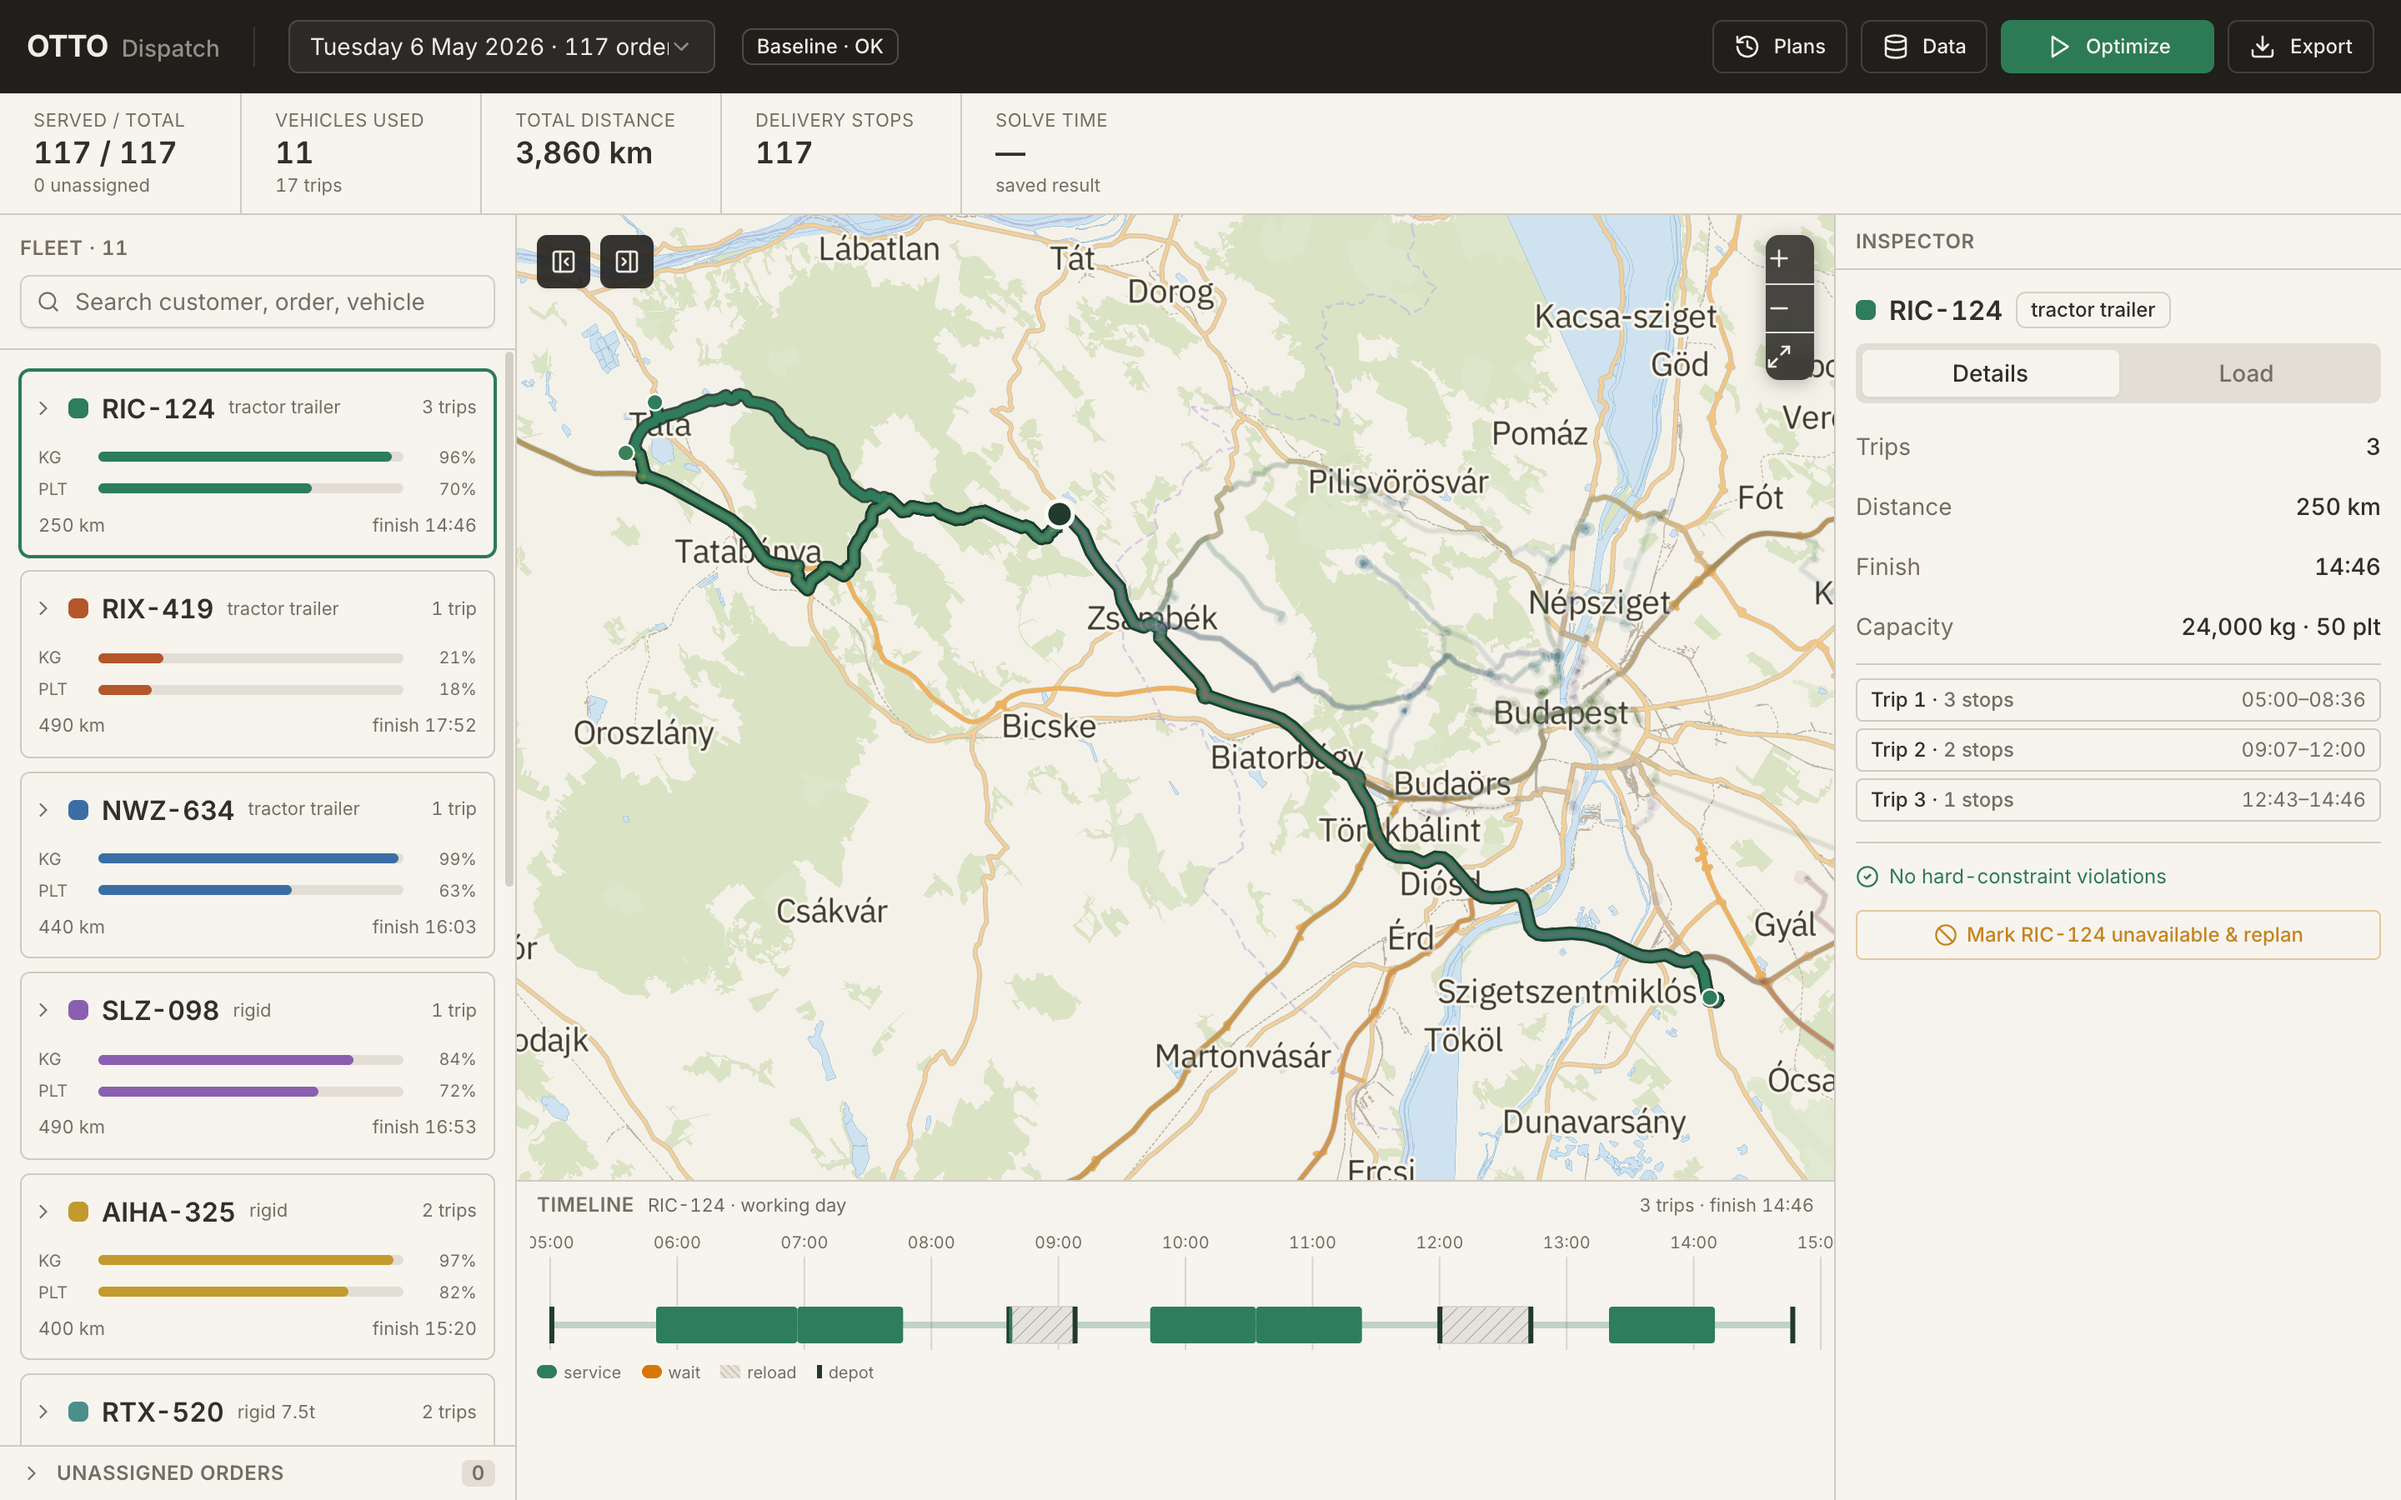
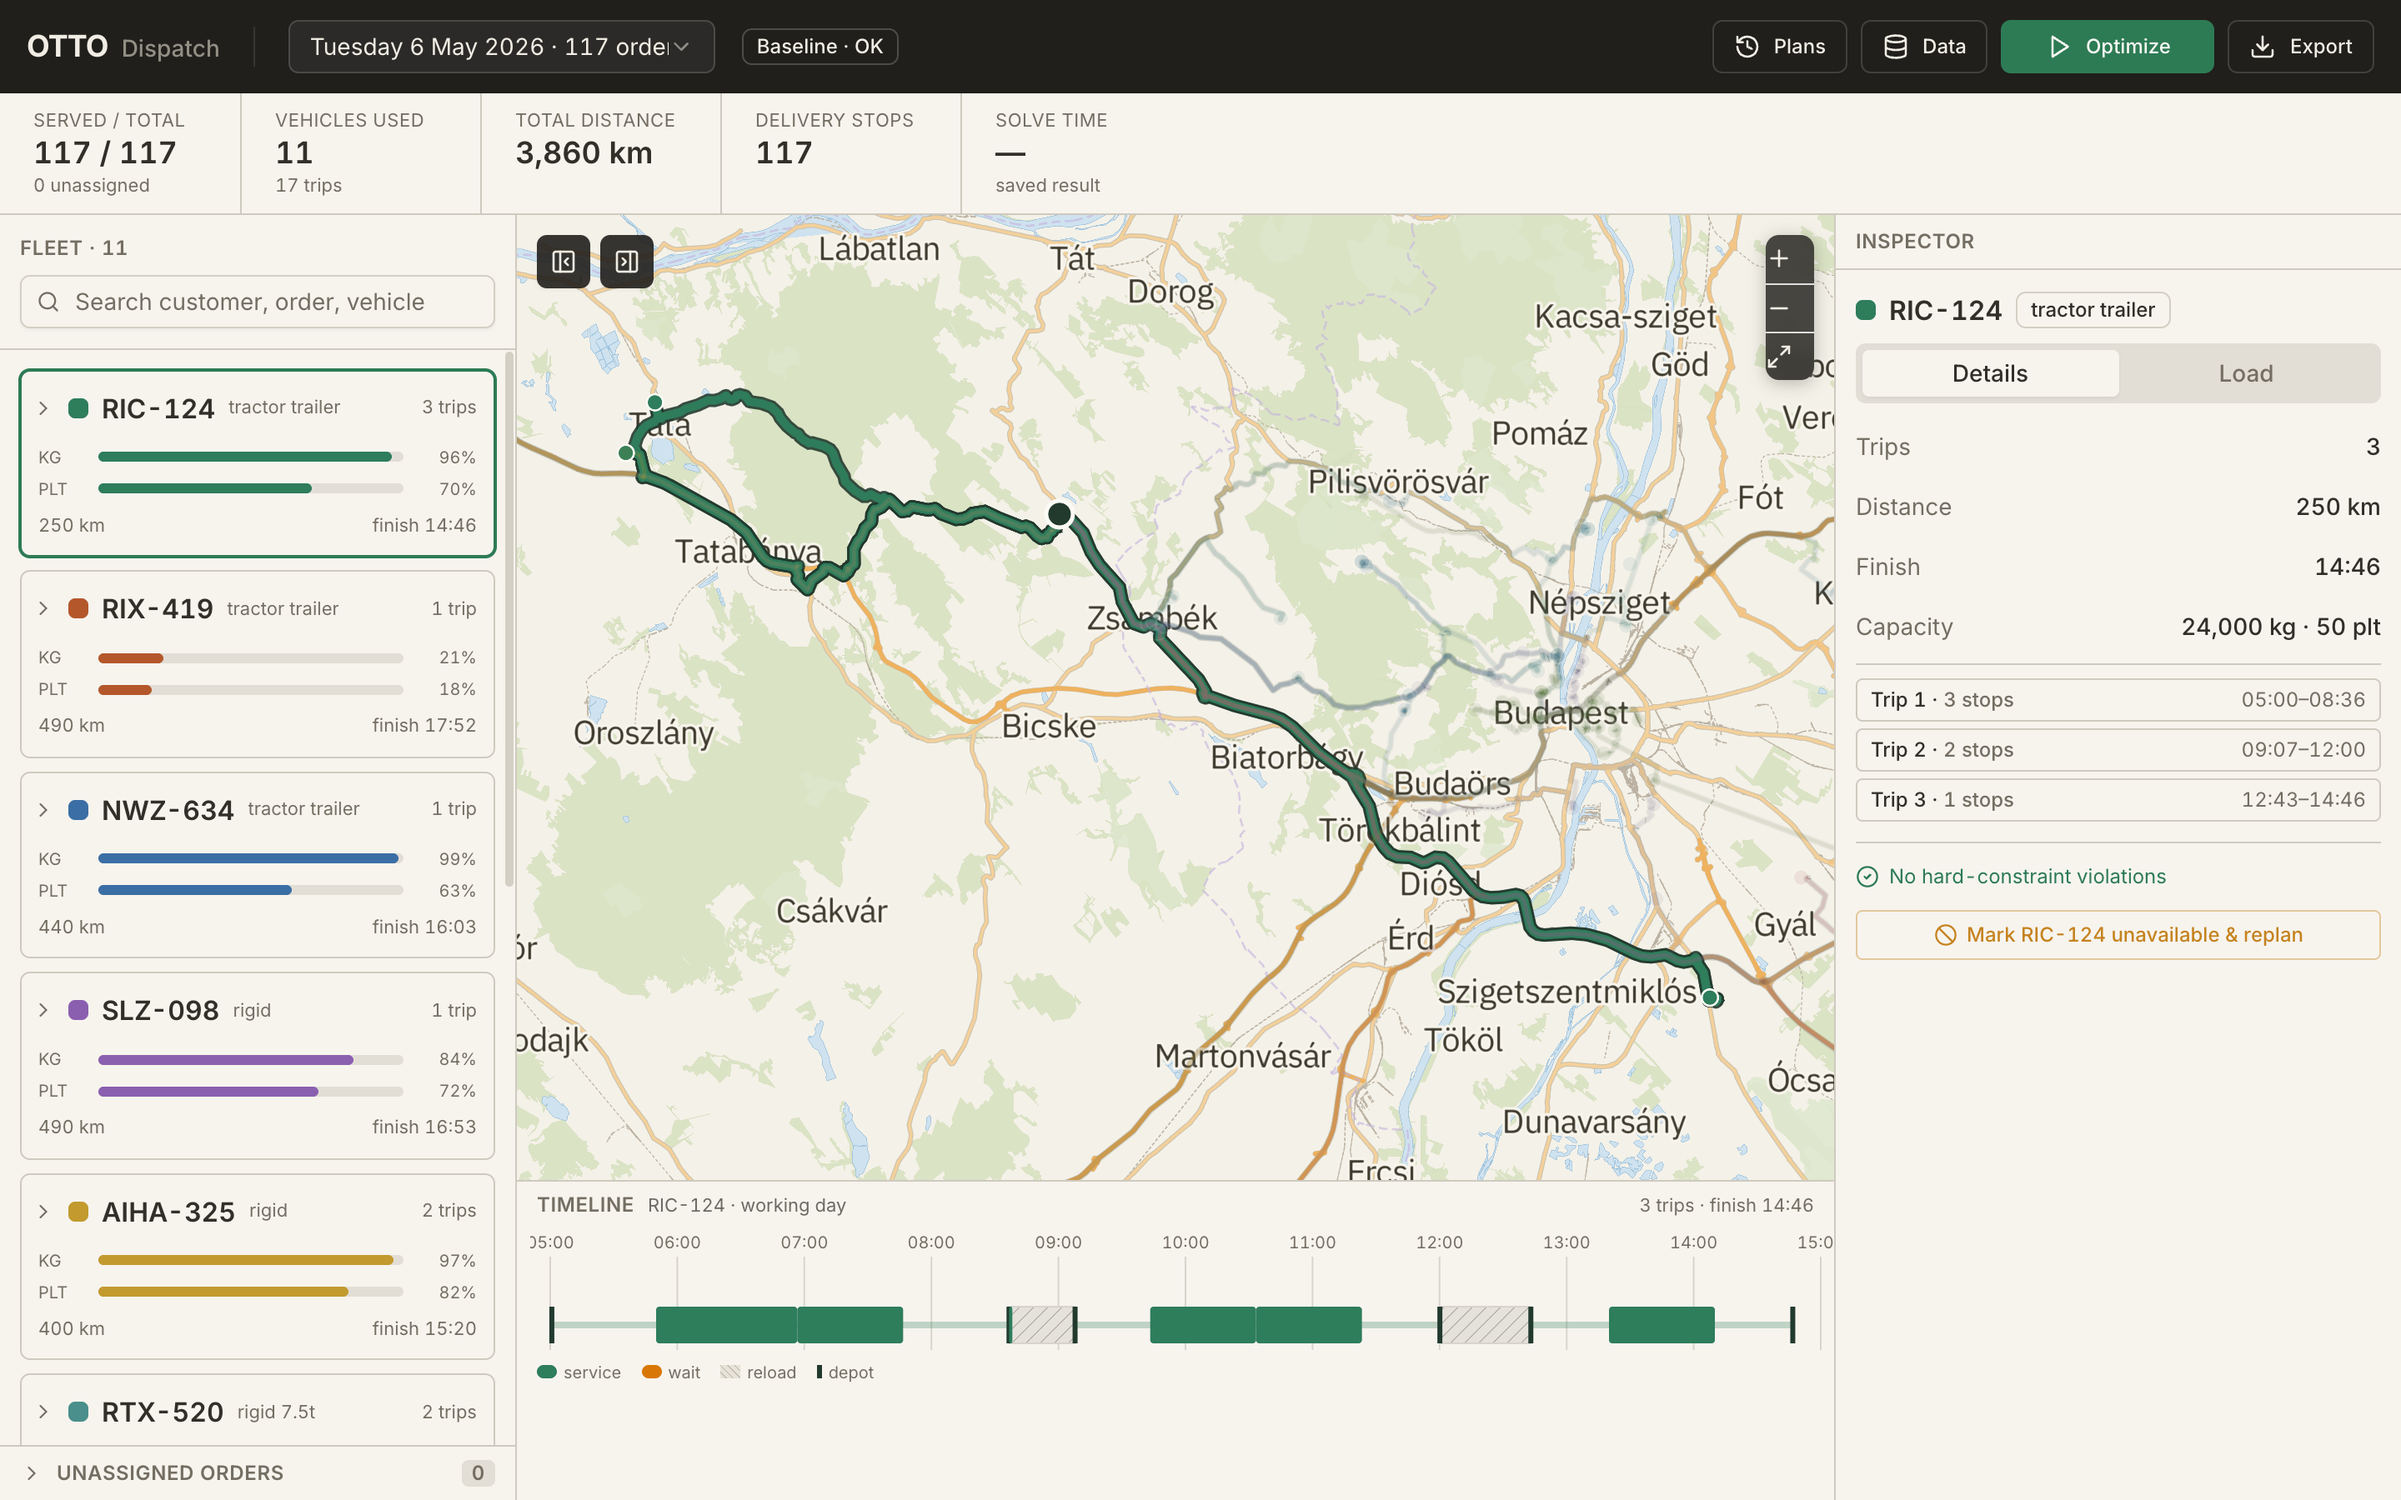
dispatch: fix river centerline artifact + show road names at regional zoom
Follow-ups to the basemap pass, from review over Hungary (Tisza, eastern border):

Water: wide rivers (Danube, Tisza, Körös) carry BOTH a riverbank polygon and a
waterway centerline. Drawing the darker centerline over/alongside the pale fill
left a line running down the river - and at regional zoom, where the polygon
narrows to a sliver, the line poked out beyond it. Fixes:
- draw waterway lines UNDER the fills (geometry-type guards: fills on polygons,
  lines on linestrings);
- colour river/canal centerlines the SAME as the water fill, so any exposed
  part blends seamlessly instead of reading as a line down the river;
- keep streams (which rarely have a polygon) a slightly darker, readable blue.
Verified in isolation (fill vs line) and in render at z11-z14: the Tisza and
Danube now read as clean uniform ribbons.

Road names: the labels started at z13, so a dispatcher at regional zoom (z10-12)
saw no road names at all. Added a major-road name tier (motorway/trunk/primary/
secondary) from z11, handing off cleanly to the full set at z13.

Screenshots regenerated (anonymized).

Changed region(s): [[0.625, 0.1244, 0.7188, 0.3111], [0.5625, 0.6844, 0.625, 0.8089], [0.3438, 0.1244, 0.375, 0.1556]]

diff --git a/dispatch/web/src/map/cartaStyle.ts b/dispatch/web/src/map/cartaStyle.ts
@@ -62,12 +62,30 @@ export function cartaStyle(): StyleSpecification {
         paint: { 'fill-color': C.residential, 'fill-opacity': 0.6 } },
 
       // --- Water ---
-      { id: 'water-fill', type: 'fill', source: 'carta', 'source-layer': 'water',
-        paint: { 'fill-color': C.water, 'fill-outline-color': C.waterLine } },
+      // Waterway centerlines are drawn FIRST, UNDER the fills. Wide rivers (the
+      // Danube) have both a riverbank polygon and a waterway centerline; drawing
+      // the line under the fill lets the polygon cover the centerline (no stray
+      // line down the middle of a filled river), while narrow streams/rivers
+      // with no polygon still read as lines. Geometry-type guards keep fills on
+      // polygons and lines on linestrings.
+      // Rivers/canals usually ALSO have a riverbank polygon; the centerline is
+      // drawn in the fill colour so wherever it is not covered by the (narrow,
+      // at low zoom) polygon it blends seamlessly instead of showing a darker
+      // line down the river. Streams rarely have a polygon, so they keep a
+      // slightly darker, readable blue.
       { id: 'water-line', type: 'line', source: 'carta', 'source-layer': 'water',
-        filter: ['in', ['get', 'class'], ['literal', ['river', 'canal', 'stream']]],
+        filter: ['all', ['==', ['geometry-type'], 'LineString'],
+          ['in', ['get', 'class'], ['literal', ['river', 'canal']]]],
+        paint: { 'line-color': C.water,
+          'line-width': ['interpolate', ['linear'], ['zoom'], 9, 1.2, 14, 3.2] } },
+      { id: 'water-stream', type: 'line', source: 'carta', 'source-layer': 'water',
+        minzoom: 12,
+        filter: ['all', ['==', ['geometry-type'], 'LineString'], ['==', ['get', 'class'], 'stream']],
         paint: { 'line-color': C.waterLine,
-          'line-width': ['interpolate', ['linear'], ['zoom'], 9, 0.8, 14, 2.4] } },
+          'line-width': ['interpolate', ['linear'], ['zoom'], 12, 0.5, 16, 1.6] } },
+      { id: 'water-fill', type: 'fill', source: 'carta', 'source-layer': 'water',
+        filter: ['==', ['geometry-type'], 'Polygon'],
+        paint: { 'fill-color': C.water, 'fill-outline-color': C.waterLine } },
 
       // --- Buildings ---
       { id: 'buildings', type: 'fill', source: 'carta', 'source-layer': 'buildings',
@@ -130,6 +148,21 @@ export function cartaStyle(): StyleSpecification {
           'line-width': ['interpolate', ['linear'], ['zoom'], 4, 0.6, 10, 1.4] } },
 
       // --- Road name labels ---
+      // Major road names appear from regional zoom (z11); the full set from z13.
+      // (The handoff is clean: the major tier stops at z13 where the all-roads
+      // tier begins.) Without this, a dispatcher at regional zoom saw no road
+      // names at all.
+      { id: 'road-labels-major', type: 'symbol', source: 'carta', 'source-layer': 'roads',
+        minzoom: 11, maxzoom: 13,
+        filter: ['all', ['has', 'name'],
+          ['in', ['get', 'class'], ['literal', ['motorway', 'trunk', 'primary', 'secondary']]]],
+        layout: {
+          'symbol-placement': 'line',
+          'text-field': ['get', 'name'],
+          'text-font': ['IBM Plex Sans Regular'],
+          'text-size': ['interpolate', ['linear'], ['zoom'], 11, 9.5, 13, 11.5],
+        },
+        paint: { 'text-color': C.label, 'text-halo-color': C.labelHalo, 'text-halo-width': 1.3 } },
       { id: 'road-labels', type: 'symbol', source: 'carta', 'source-layer': 'roads',
         minzoom: 13,
         filter: ['has', 'name'],
